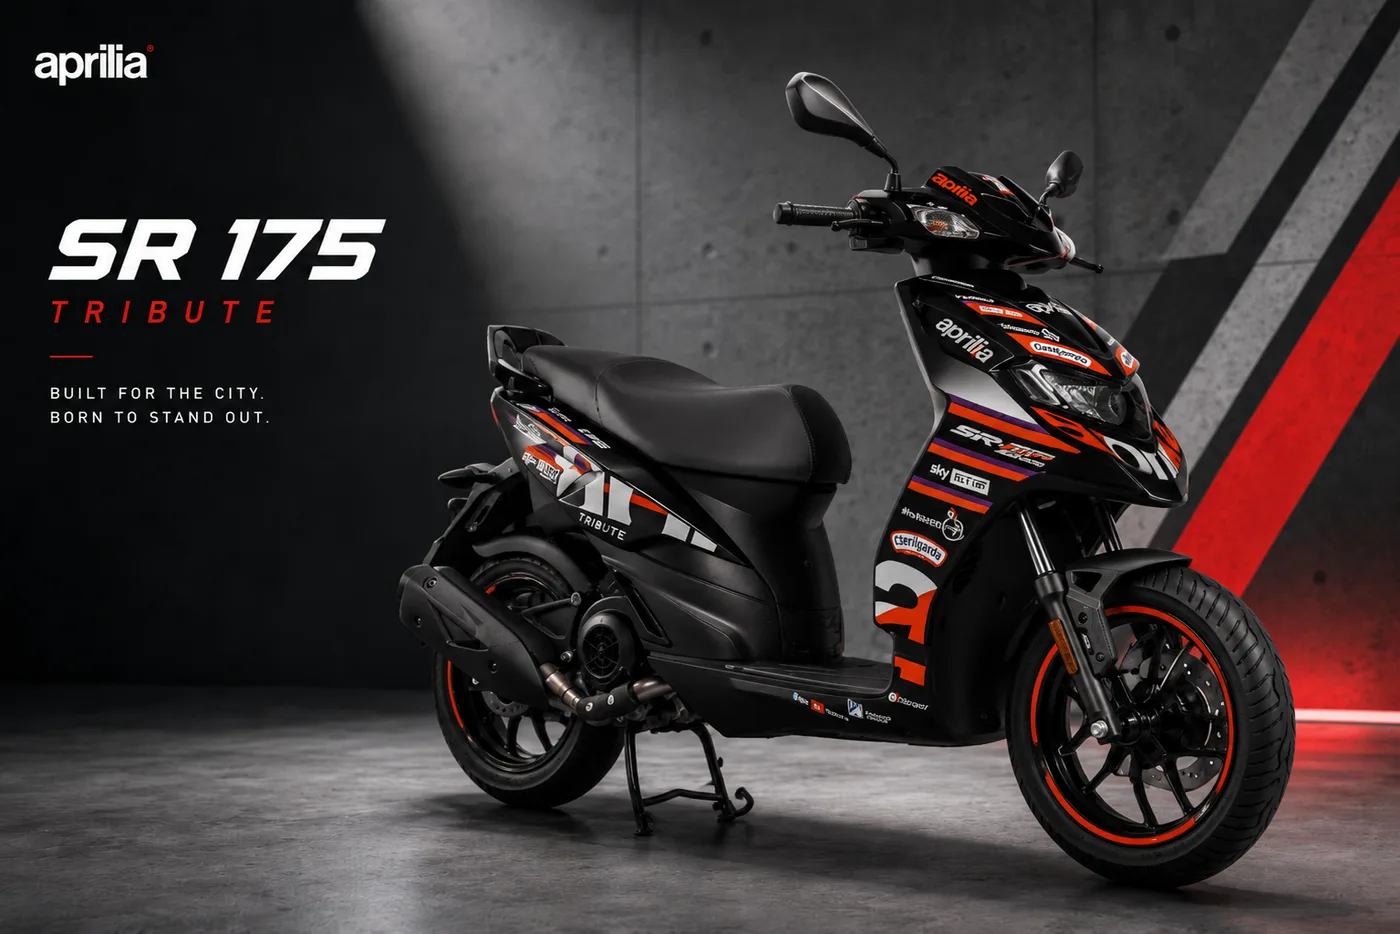
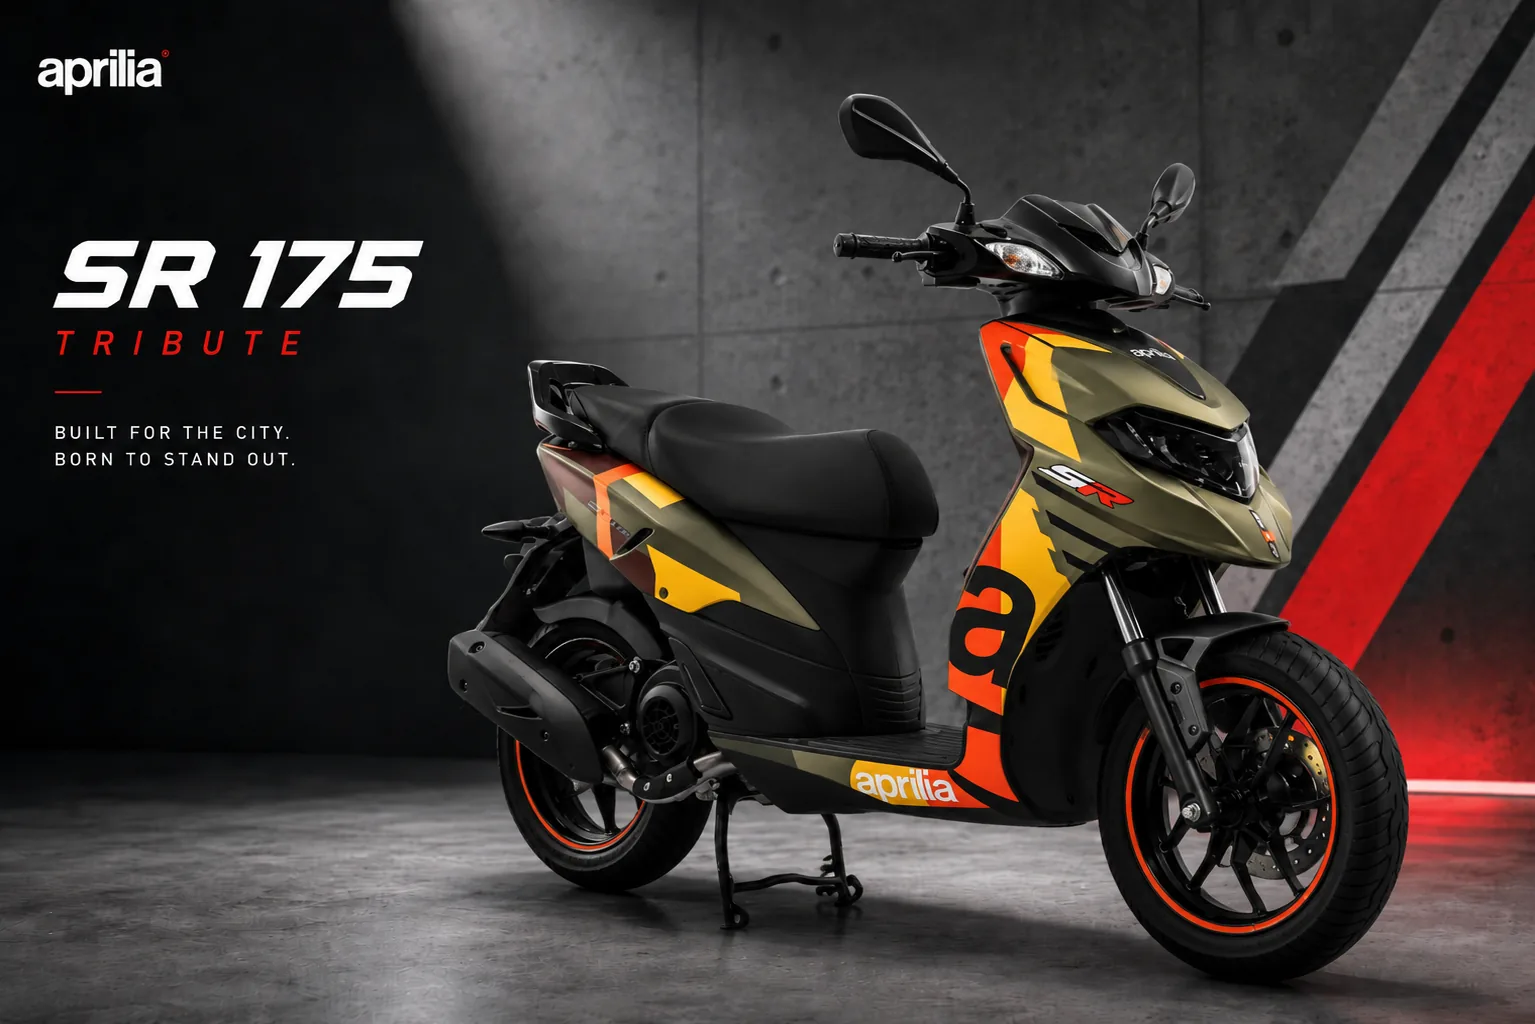
Replace Vespa S, Vespa ZX, and Aprilia Tribute model photos
Swap in correct model imagery and update poster dimensions in constants.

diff --git a/src/lib/constants.ts b/src/lib/constants.ts
@@ -135,8 +135,8 @@ export const VESPA_MODELS = [
     description:
       "Classic Vespa proportions with polished city comfort and effortless everyday elegance.",
     image: "/images/poster-vespa-zx.webp",
-    width: 1400,
-    height: 1052,
+    width: 1447,
+    height: 1087,
   },
   {
     name: "Vespa",
@@ -192,8 +192,8 @@ export const APRILIA_MODELS = [
     description:
       "The SR 175 dressed in Aprilia's racing livery — for riders who want the paddock look every day.",
     image: "/images/poster-aprilia-tribute.webp",
-    width: 1400,
-    height: 934,
+    width: 1535,
+    height: 1024,
   },
 ];
 
